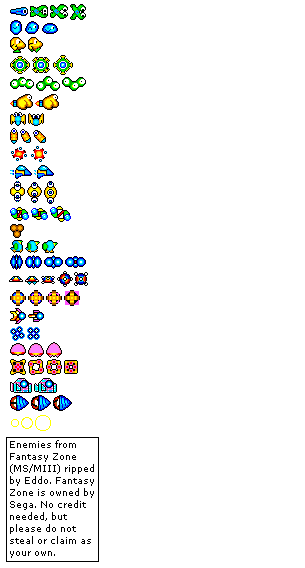
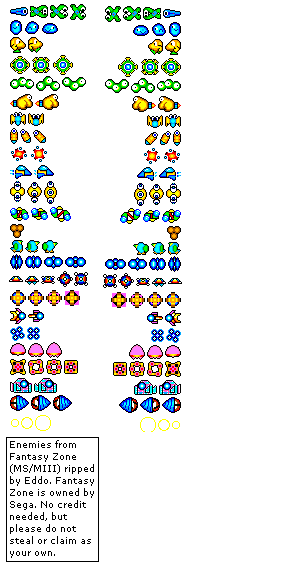
Enemy sprite sheet fix.

Changed region(s): [[0.3246, 0.0, 0.5902, 0.7482]]

diff --git a/src/Entity/Enemy/Kirikiri/Kirikiri.cpp b/src/Entity/Enemy/Kirikiri/Kirikiri.cpp
@@ -10,10 +10,12 @@ Kirikiri::Kirikiri(bool isFaceRight, sf::Vector2f pos) : Enemy()
 	
 	
 	sf::IntRect zone({ 8, 20 }, { 51, 15 });
-	Animation* fly = new Animation(1, 3, zone);
+	Animation* flyRight = new Animation(1, 3, sf::IntRect{ sf::Vector2i{8,20},sf::Vector2i{51,15} });
+	Animation* flyLeft = new Animation(1, 3, sf::IntRect{ sf::Vector2i{132,21},sf::Vector2i{51,15} });
 
 	curAction = FLY_RIGHT;
-	animations[curAction] = fly;
+	animations[curAction] = flyRight;
+	animations[FLY_LEFT] = flyLeft;
 
 	sprite->setTexture(*texture);
 	sprite->setPosition(pos);
